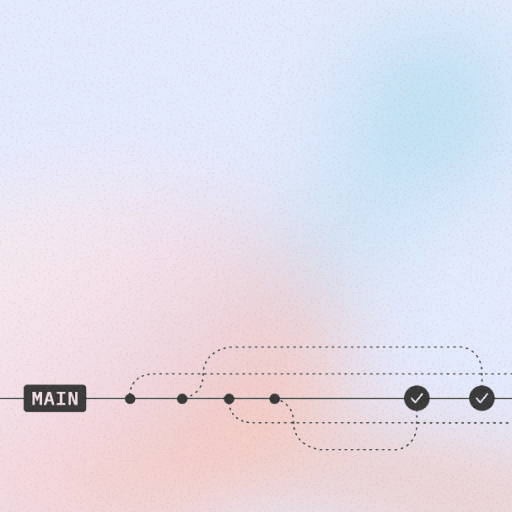
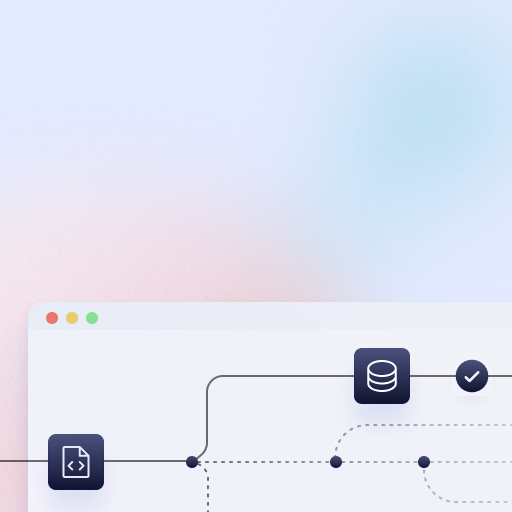
new bento pics

Changed region(s): [[0.0, 0.5625, 1.0, 1.0]]

diff --git a/src/components/BentoGrid.jsx b/src/components/BentoGrid.jsx
@@ -15,29 +15,26 @@ export default function HomeBento() {
           <div style={{display:"flex",alignItems:"center",gap:"10px"}}>
             <div className="icon-pill"><Lock size={16}/> Auth</div>
           </div>
-          <h2 className="text-white">Create access-protected docs</h2>
+          <h2 className="text-white">Seamless Cross-Platform Collaboration</h2>
           <p className="text-white opacity-60 text-sm">
-            With visitor authentication you choose who can access your docs — so you can keep
-            sensitive information away from competitors and hackers. Simply set up with an auth
-            integration and only authorized users can view your documentation.
+          Seamlessly integrate with n8n, Dify, coze and more. One platform, endless possibilities—a unified system for all your workflow needs.
           </p>
 
-          <div className="hero-logos mb-24">
+          {/* <div className="hero-logos mb-24">
             <div className="logo-box logo-a"><img src={cozeLogo} alt="React"/></div>
             <div className="logo-box logo-b"><img src={difyLogo} alt="Dify"/></div>
             <div className="logo-box logo-c"><img src={n8nLogo} alt="n8n"/></div>
-          </div>
+          </div> */}
         </article>
 
         {/* 右上 - 冰蓝到杏桃 + dotted 线 + 工作流 SVG */}
         <article className="bento grad-ice-to-peach span-4x3 text-[var(--primary-font-a80)] text-sm">
           <div style={{display:"flex",alignItems:"center",gap:"10px"}}>
             <GitBranch size={18} />
-            <h2>A workflow you know</h2>
+            <h2>Preview and Download Workflows</h2>
           </div>
           <p className="pb-40">
-            AvaMarket’s branch-based workflow will be instantly familiar if you’ve used GitHub or
-            GitLab. Open a change request to edit a published page, request a review, then merge.
+          See your workflows come to life with interactive previews. Download nodes instantly for use in your favorite platforms.
           </p>
 
           {/* dotted 框 + main 标签 */}
@@ -65,28 +62,21 @@ export default function HomeBento() {
         {/* 右上 - 柠黄到冰蓝 + 进度条 */}
           <article className="bento grad-sun-to-sky span-4x3 text-[var(--primary-font-a80)] text-sm">
           <div style={{display:"flex",alignItems:"center",gap:"10px"}}>
-            <Wand2 size={18}/> <h2>Write better with AI</h2>
+            <Wand2 size={18}/> <h2>Welcome to the AI Market</h2>
           </div>
           <p>
-            GitBook AI can fix grammar and technical jargon, edit tone, translate docs, or draft pages
-            for you — without leaving your tab.
+          Discover AI workflows, platform integrations, and MCP services—all in one place. Your gateway to smarter automation and productivity.
           </p>
-          <div className="progress-stack">
-            <div className="progress-line"><i style={{width:"68%"}}/></div>
-            <div className="progress-line"><i style={{width:"52%"}}/></div>
-          </div>
         </article>
 
         {/* 右下 - 青绿到冰蓝 + CTA */}
-        <article className="bento grad-teal-to-ice span-8x3 text-white opacity-80 text-sm">
+        <article className="bento grad-teal-to-ice span-8x3 text-[var(--primary-font-a80)] text-sm">
           <div style={{display:"flex",alignItems:"center",gap:"10px"}}>
-            <Sparkles size={18}/> <h2>Effortless API documentation</h2>
+            <Sparkles size={18}/> <h2>Explore Our Categories</h2>
           </div>
           <p>
-            Create detailed, interactive API docs that your users and customers will love — or
-            generate them automatically from API definition files.
+          Templates for AI workflows, platform integrations, and MCP services—explore them all to boost your productivity.
           </p>
-          <a className="cta" href="#"><ChevronRight size={16}/> FIND OUT MORE</a>
         </article>
       </div>
     </section>

diff --git a/src/pages/HomePage.jsx b/src/pages/HomePage.jsx
@@ -213,7 +213,7 @@ const HomePage = ({ onOpenDetail }) => {
       <div className="w-full flex flex-col items-center pt-8 pb-4">
         {/* 搜索栏，左侧显示当前选中分类 */}
         <div className="w-full max-w-3xl flex flex-col items-center">
-          <div className="window-inner-glow flex gap-4 items-center bg-white border border-[var(--border-color)] rounded-page-container px-4 py-3 shadow-[var(--shadow-lg)] w-full">
+          <div className="flex gap-4 items-center bg-white border border-[var(--border-color)] rounded-page-container px-4 py-3 shadow-[var(--shadow-lg)] w-full">
             {/* 面包屑区域：flex + gap-2 控制子元素间距 */}
             <div className="flex items-center gap-2">
               {selectedCategory && (
